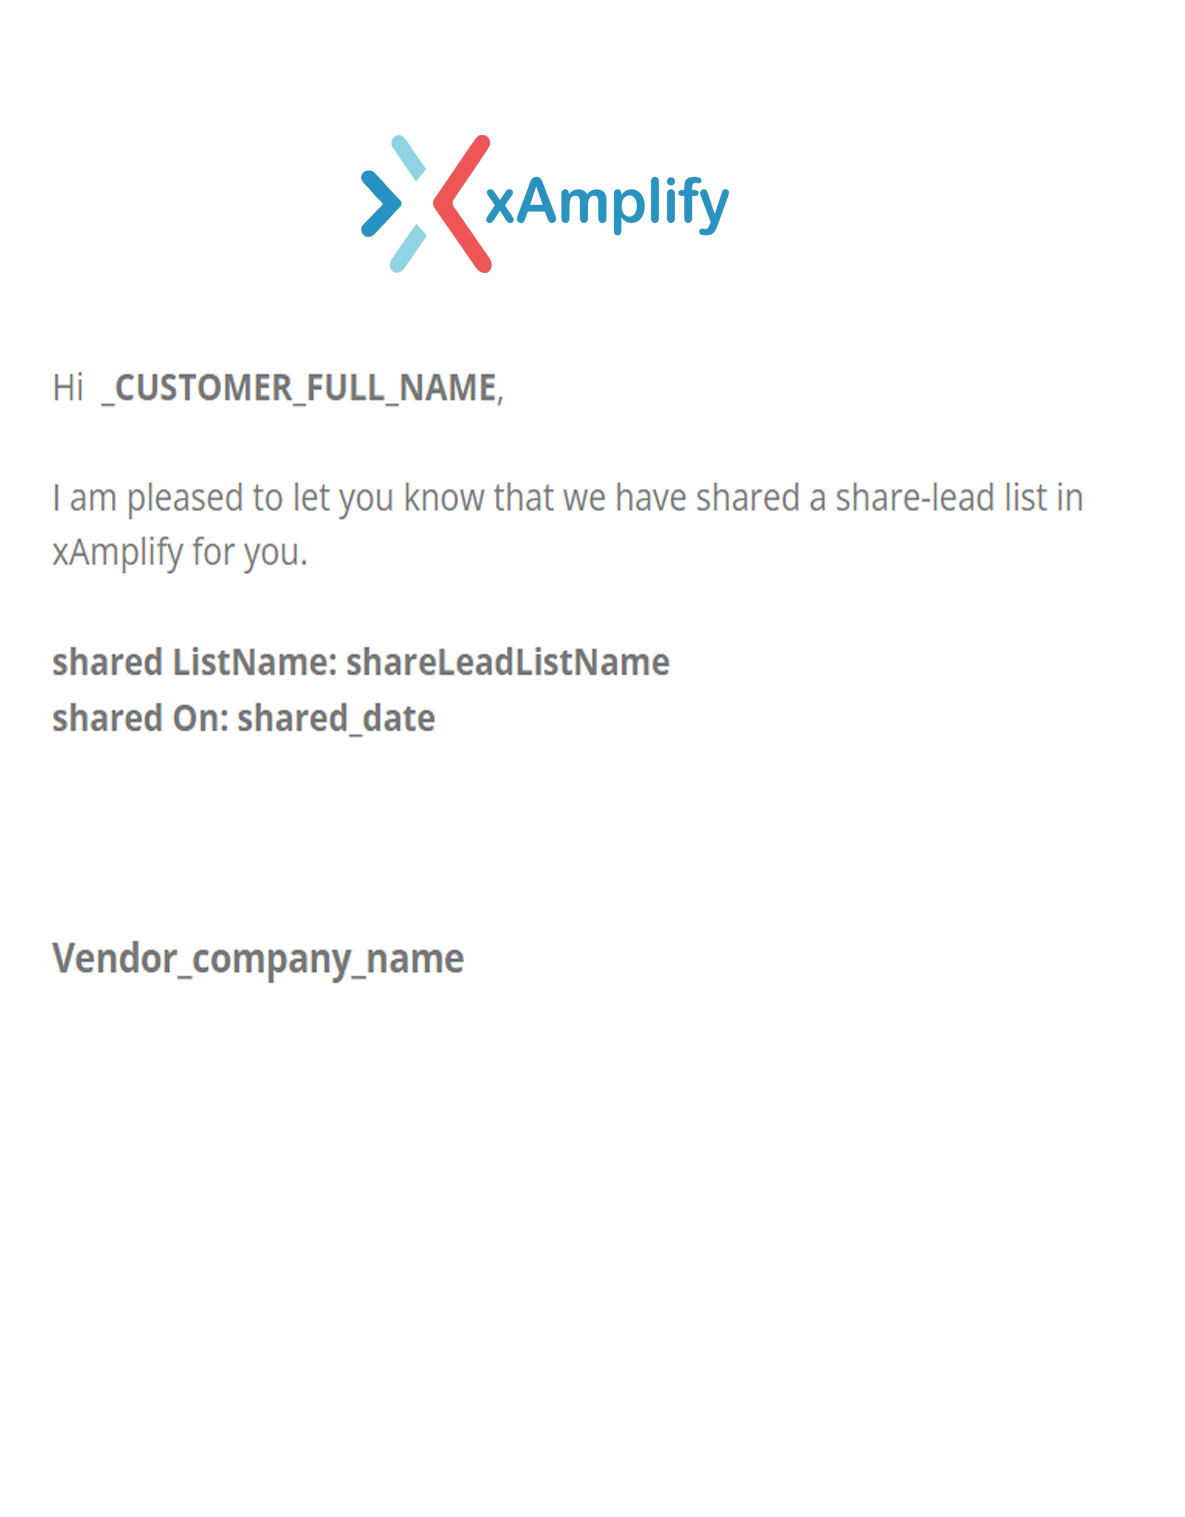
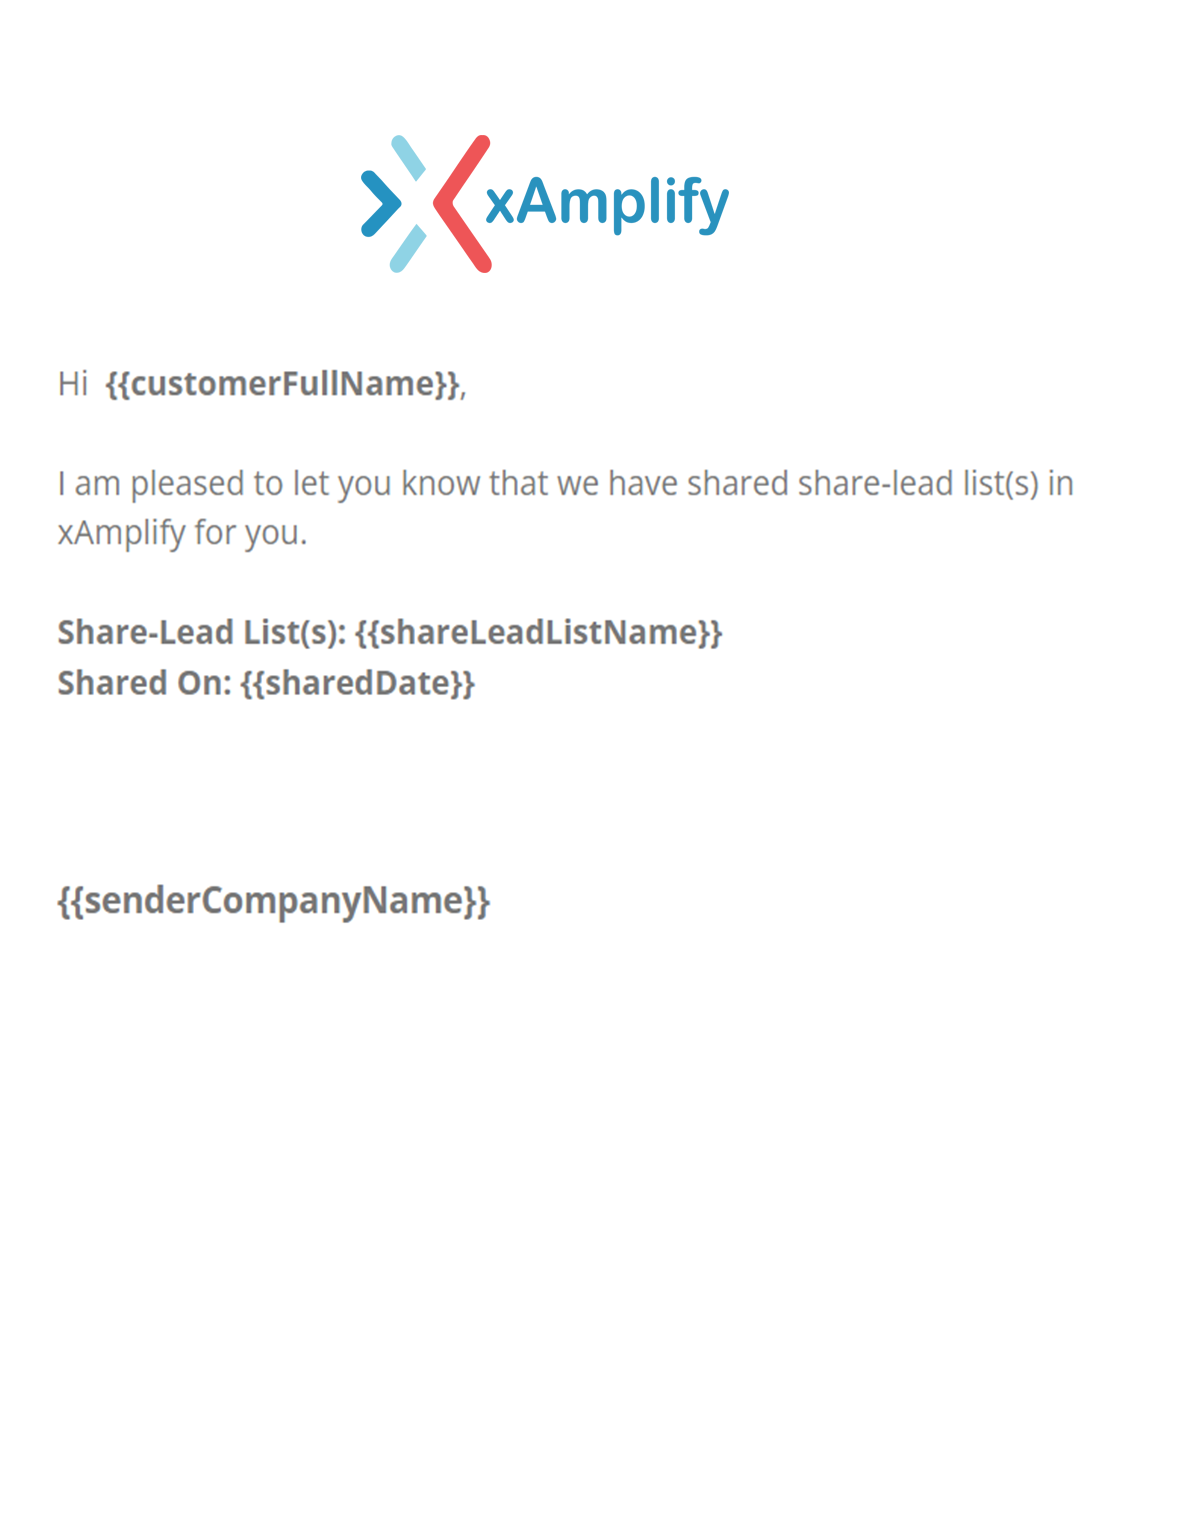
merge tags issue resolved

diff --git a/src/app/util/xamplify-default-templates/xamplify-default-templates.component.ts b/src/app/util/xamplify-default-templates/xamplify-default-templates.component.ts
@@ -76,40 +76,45 @@ export class XamplifyDefaultTemplatesComponent implements OnInit {
           swal( "", "Whoops! We are unable to save this template because subject line is empty", "error" );
           return false;
         }
-      if (jsonContent.indexOf("_CUSTOMER_FULL_NAME") < 0 && "JOIN_VENDOR_COMPANY"!=emailTemplate['typeInString']) {
-          swal( "", "Whoops! We are unable to save this template because you deleted '_CUSTOMER_FULL_NAME' tag.", "error" );
-          return false;
+
+      if(("JOIN_MY_TEAM"==emailTemplate['typeInString'] || "FORGOT_PASSWORD"==emailTemplate['typeInString'] || "ACCOUNT_ACTIVATION"==emailTemplate['typeInString']) && jsonContent.indexOf("_CUSTOMER_FULL_NAME") < 0){
+        swal( "", "Whoops! We are unable to save this template because you deleted '_CUSTOMER_FULL_NAME' tag.", "error" );
+        return false;
+      }
+      if(("TRACK_PUBLISH"==emailTemplate['typeInString'] || "PLAYBOOK_PUBLISH"==emailTemplate['typeInString'] || "ASSET_PUBLISH"==emailTemplate['typeInString'] || "SHARE_LEAD"==emailTemplate['typeInString']) && jsonContent.indexOf('{{customerFullName}}') < 0){
+        swal( "", "Whoops! We are unable to save this template because you deleted '{{customerFullName}}' tag.", "error" );
+        return false;
       }
       if("JOIN_VENDOR_COMPANY"==emailTemplate['typeInString'] && jsonContent.indexOf("{{PARTNER_NAME}}") < 0){
         swal( "", "Whoops! We are unable to save this template because you deleted '{{PARTNER_NAME}}' tag.", "error" );
         return false;
       }
-      if("TRACK_PUBLISH"==emailTemplate['typeInString'] && jsonContent.indexOf("track_title") < 0){
-        swal( "", "Whoops! We are unable to save this template because you deleted 'Track Title' tag.", "error" );
+      if("TRACK_PUBLISH"==emailTemplate['typeInString'] && jsonContent.indexOf("{{trackTitle}}") < 0){
+        swal( "", "Whoops! We are unable to save this template because you deleted '{{trackTitle}}' tag.", "error" );
         return false;
       }
-      if("PLAYBOOK_PUBLISH"==emailTemplate['typeInString'] && jsonContent.indexOf("playbook_title") < 0){
-        swal( "", "Whoops! We are unable to save this template because you deleted 'playbook_title' tag.", "error" );
+      if("PLAYBOOK_PUBLISH"==emailTemplate['typeInString'] && jsonContent.indexOf("{{playbookTitle}}") < 0){
+        swal( "", "Whoops! We are unable to save this template because you deleted '{{playbookTitle}}' tag.", "error" );
         return false;
       }
-      if("ASSET_PUBLISH"==emailTemplate['typeInString'] && jsonContent.indexOf("Asset_name") < 0){
-        swal( "", "Whoops! We are unable to save this template because you deleted 'Asset_name' tag.", "error" );
+      if("ASSET_PUBLISH"==emailTemplate['typeInString'] && jsonContent.indexOf("{{assetName}}") < 0){
+        swal( "", "Whoops! We are unable to save this template because you deleted '{{assetName}}' tag.", "error" );
         return false;
       }
-      if("SHARE_LEAD"==emailTemplate['typeInString'] && jsonContent.indexOf("shareLeadListName") < 0){
-        swal( "", "Whoops! We are unable to save this template because you deleted 'shareLeadListName' tag.", "error" );
+      if("SHARE_LEAD"==emailTemplate['typeInString'] && jsonContent.indexOf("{{shareLeadListName}}") < 0){
+        swal( "", "Whoops! We are unable to save this template because you deleted '{{shareLeadListName}}' tag.", "error" );
         return false;
       }
-      if(("TRACK_PUBLISH"==emailTemplate['typeInString'] || "PLAYBOOK_PUBLISH"==emailTemplate['typeInString']) && jsonContent.indexOf("published_date") < 0){
-        swal( "", "Whoops! We are unable to save this template because you deleted 'published_date' tag.", "error" );
+      if(("TRACK_PUBLISH"==emailTemplate['typeInString'] || "PLAYBOOK_PUBLISH"==emailTemplate['typeInString']) && jsonContent.indexOf("{{publishedDate}}") < 0){
+        swal( "", "Whoops! We are unable to save this template because you deleted '{{publishedDate}}' tag.", "error" );
         return false;
       }
-      if(("ASSET_PUBLISH"==emailTemplate['typeInString'] || "SHARE_LEAD"==emailTemplate['typeInString']) && jsonContent.indexOf("shared_date") < 0){
-        swal( "", "Whoops! We are unable to save this template because you deleted 'shared_date' tag.", "error" );
+      if(("ASSET_PUBLISH"==emailTemplate['typeInString'] || "SHARE_LEAD"==emailTemplate['typeInString']) && jsonContent.indexOf("{{sharedDate}}") < 0){
+        swal( "", "Whoops! We are unable to save this template because you deleted '{{sharedDate}}' tag.", "error" );
         return false;
       }
-      if(("TRACK_PUBLISH"==emailTemplate['typeInString'] || "PLAYBOOK_PUBLISH"==emailTemplate['typeInString'] || "ASSET_PUBLISH"==emailTemplate['typeInString'] || "SHARE_LEAD"==emailTemplate['typeInString']) && jsonContent.indexOf('Vendor_company_name') < 0){
-        swal( "", "Whoops! We are unable to save this template because you deleted 'Vendor_company_name' tag.", "error" );
+      if(("TRACK_PUBLISH"==emailTemplate['typeInString'] || "PLAYBOOK_PUBLISH"==emailTemplate['typeInString'] || "ASSET_PUBLISH"==emailTemplate['typeInString'] || "SHARE_LEAD"==emailTemplate['typeInString']) && jsonContent.indexOf('{{senderCompanyName}}') < 0){
+        swal( "", "Whoops! We are unable to save this template because you deleted '{{senderCompanyName}}' tag.", "error" );
         return false;
       }
       if(jsonContent.indexOf("<Vanity_Company_Logo_Href>") < 0){
@@ -151,53 +156,53 @@ export class XamplifyDefaultTemplatesComponent implements OnInit {
       let emailTemplateType = emailTemplate.typeInString
 
       if("FORGOT_PASSWORD"==emailTemplateType || "ACCOUNT_ACTIVATION"==emailTemplateType || "JOIN_VENDOR_COMPANY"==emailTemplateType || "JOIN_MY_TEAM"==emailTemplateType){
-        var mergeTags = [{ name: 'Sendor First Name', value: '{{firstName}}' },
-        { name: 'Sendor Last Name', value: '{{lastName}}' },
-        { name: 'Sendor Full Name', value: '{{fullName}}' },
-        { name: 'Sendor Email Id', value: '{{emailId}}' },
+        var mergeTags = [{ name: 'Sender First Name', value: '{{firstName}}' },
+        { name: 'Sender Last Name', value: '{{lastName}}' },
+        { name: 'Sender Full Name', value: '{{fullName}}' },
+        { name: 'Sender Email Id', value: '{{emailId}}' },
         ];
       }
      if("TRACK_PUBLISH"==emailTemplateType){
-        mergeTags = [{ name: 'Sendor First Name', value: '{{firstName}}' },
-        { name: 'Sendor Last Name', value: '{{lastName}}' },
-        { name: 'Sendor Full Name', value: '{{fullName}}' },
-        { name: 'Sendor Email Id', value: '{{emailId}}' },
-        { name: 'Sendor Company Name', value: '{{sendorCompanyName}}' },
+        mergeTags = [{ name: 'Sender First Name', value: '{{firstName}}' },
+        { name: 'Sender Last Name', value: '{{lastName}}' },
+        { name: 'Sender Full Name', value: '{{fullName}}' },
+        { name: 'Sender Email Id', value: '{{emailId}}' },
+        { name: 'Sender Company Name', value: '{{senderCompanyName}}' },
         { name: 'Customer Full Name', value: '{{customerFullName}}' },
         { name: 'Learning Track Title', value: '{{trackTitle}}' },
         { name: 'Published On', value: '{{publishedDate}}' },
         ];
       }
       if("PLAYBOOK_PUBLISH"==emailTemplateType){
-        mergeTags = [{ name: 'Sendor First Name', value: '{{firstName}}' },
-        { name: 'Sendor Last Name', value: '{{lastName}}' },
-        { name: 'Sendor Full Name', value: '{{fullName}}' },
-        { name: 'Sendor Email Id', value: '{{emailId}}' },
-        { name: 'Sendor Company Name', value: '{{sendorCompanyName}}' },
+        mergeTags = [{ name: 'Sender First Name', value: '{{firstName}}' },
+        { name: 'Sender Last Name', value: '{{lastName}}' },
+        { name: 'Sender Full Name', value: '{{fullName}}' },
+        { name: 'Sender Email Id', value: '{{emailId}}' },
+        { name: 'Sender Company Name', value: '{{senderCompanyName}}' },
         { name: 'Customer Full Name', value: '{{customerFullName}}' },
         { name: 'Playbook Title', value: '{{playbookTitle}}' },
         { name: 'Published On', value: '{{publishedDate}}' },
         ];
       }
       if("ASSET_PUBLISH"==emailTemplateType){
-        mergeTags = [{ name: 'Sendor First Name', value: '{{firstName}}' },
-        { name: 'Sendor Last Name', value: '{{lastName}}' },
-        { name: 'Sendor Full Name', value: '{{fullName}}' },
-        { name: 'Sendor Email Id', value: '{{emailId}}' },
-        { name: 'Sendor Company Name', value: '{{sendorCompanyName}}' },
+        mergeTags = [{ name: 'Sender First Name', value: '{{firstName}}' },
+        { name: 'Sender Last Name', value: '{{lastName}}' },
+        { name: 'Sender Full Name', value: '{{fullName}}' },
+        { name: 'Sender Email Id', value: '{{emailId}}' },
+        { name: 'Sender Company Name', value: '{{senderCompanyName}}' },
         { name: 'Customer Full Name', value: '{{customerFullName}}' },
         { name: 'Asset Name', value: '{{assetName}}' },
         { name: 'Shared On', value: '{{sharedDate}}' },
         ];
       }
       if("SHARE_LEAD"==emailTemplateType){
-        mergeTags =[{ name: 'Sendor First Name', value: '{{firstName}}' },
-        { name: 'Sendor Last Name', value: '{{lastName}}' },
-        { name: 'Sendor Full Name', value: '{{fullName}}' },
-        { name: 'Sendor Email Id', value: '{{emailId}}' },
-        { name: 'Sendor Company Name', value: '{{sendorCompanyName}}' },
+        mergeTags =[{ name: 'Sender First Name', value: '{{firstName}}' },
+        { name: 'Sender Last Name', value: '{{lastName}}' },
+        { name: 'Sender Full Name', value: '{{fullName}}' },
+        { name: 'Sender Email Id', value: '{{emailId}}' },
+        { name: 'Sender Company Name', value: '{{senderCompanyName}}' },
         { name: 'Customer Full Name', value: '{{customerFullName}}' },
-        { name: 'Share-Lead List Name', value: '{{share-LeadListName}}' },
+        { name: 'Share-Lead List Name', value: '{{shareLeadListName}}' },
         { name: 'Shared On', value: '{{sharedDate}}' },
         ];
       }
